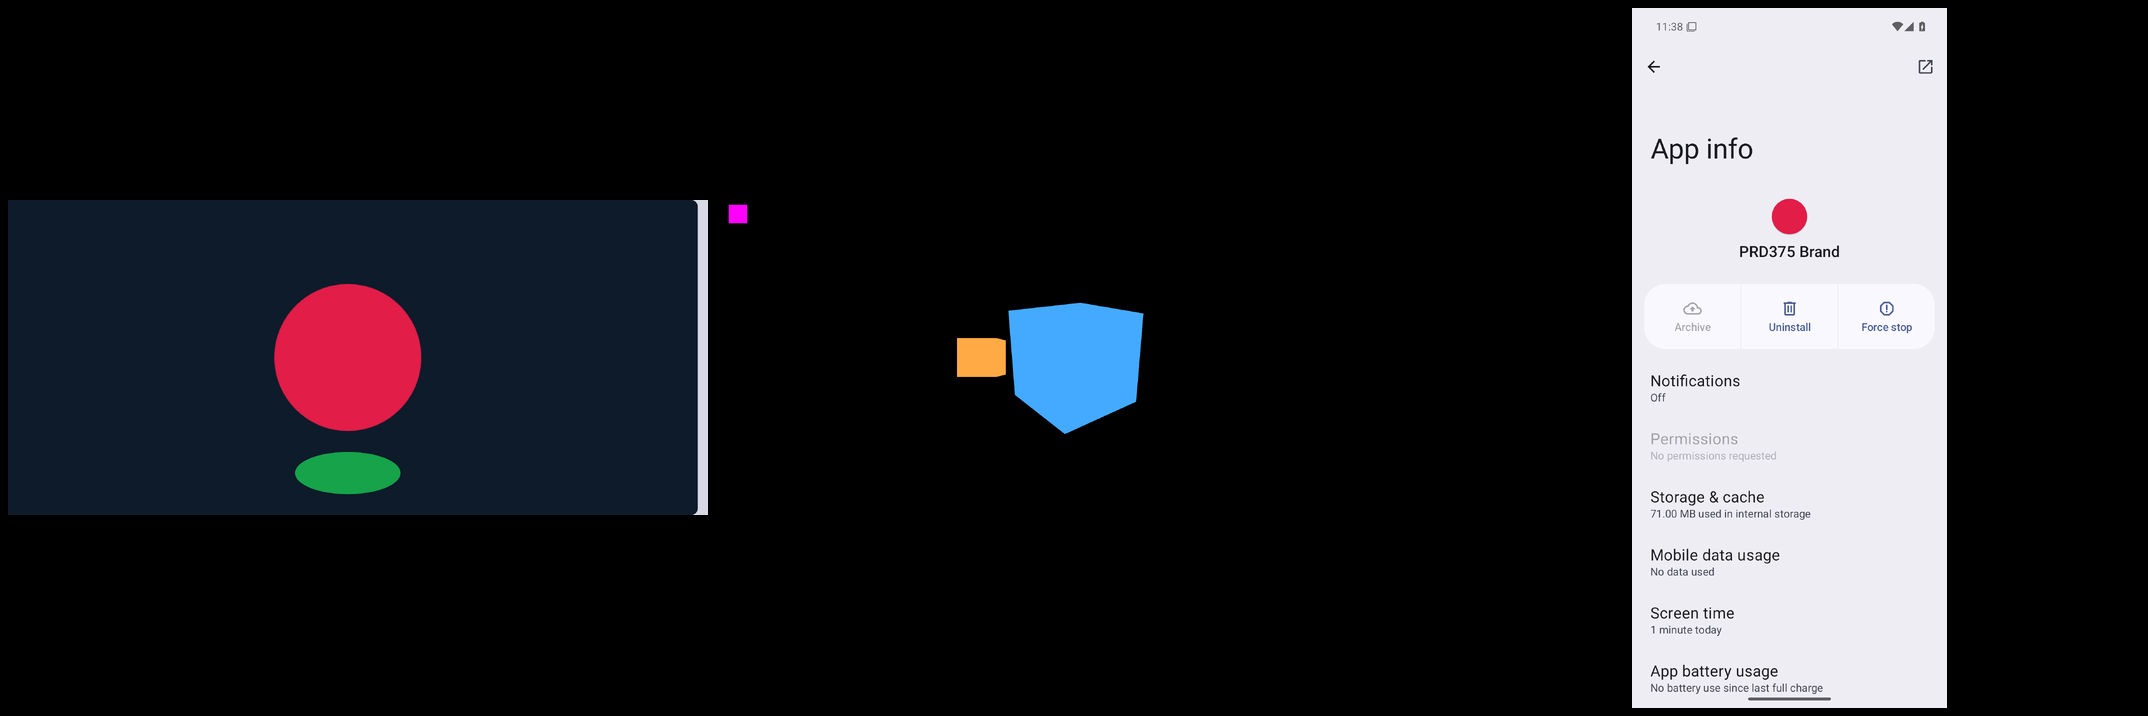
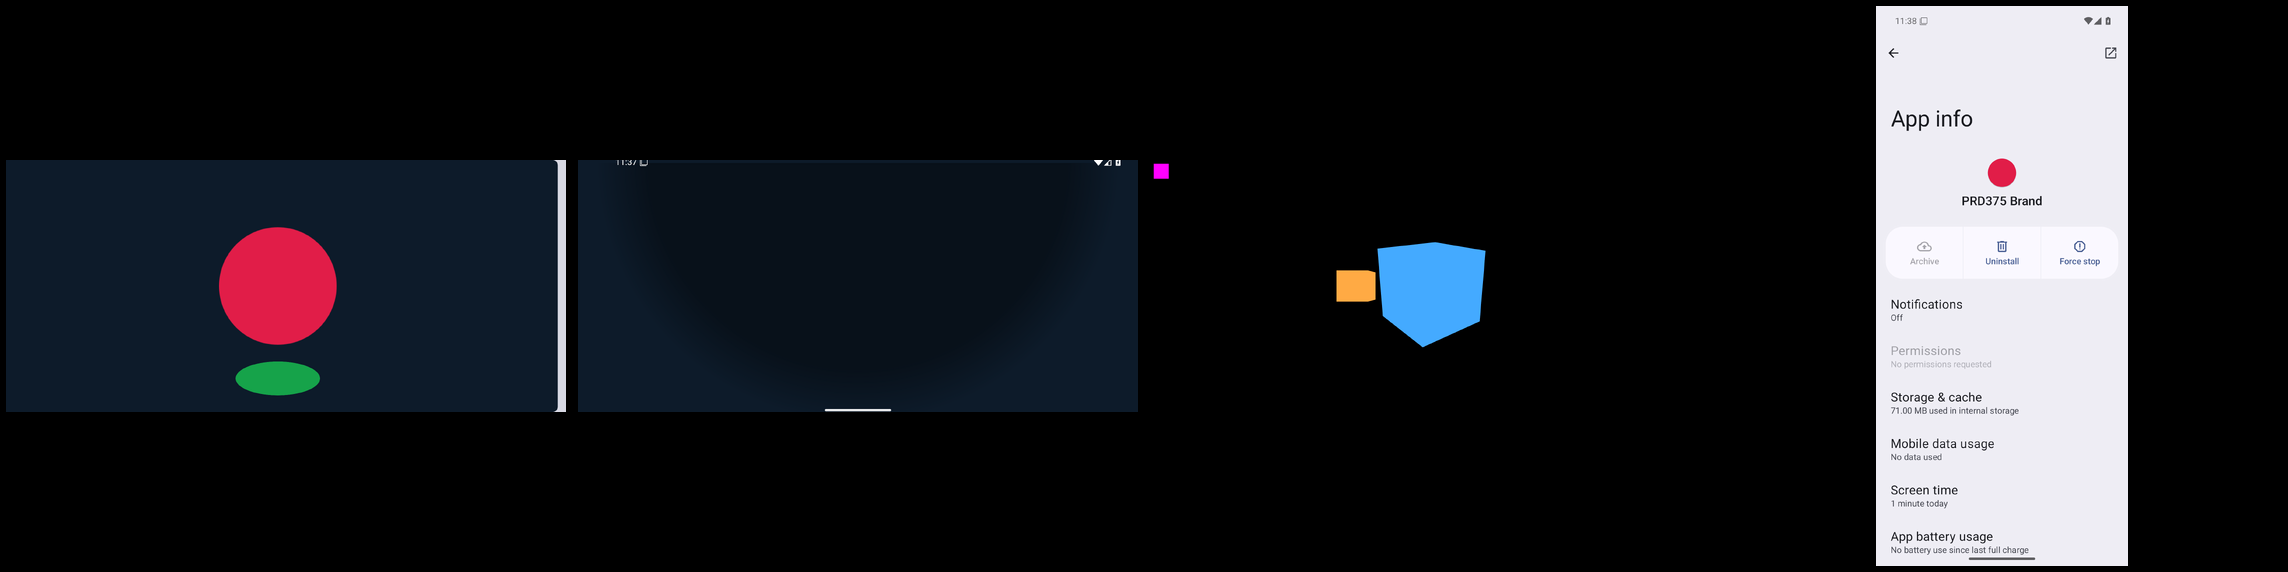
fix(PRD-375): address review — distinct-variant assertions, AAB coverage, honest evidence
- compare each packaged variant against its own source (catches slot swaps)
- add AAB release brand test and version/background-colour assertions
- evidence: correct test command, name themed-icon and OEM limits, add loading frame

diff --git a/docs/verification/prd-375-readiness-phase-1-2026-09-12.md b/docs/verification/prd-375-readiness-phase-1-2026-09-12.md
@@ -20,34 +20,45 @@ observation the earlier work never made.
 
 ```sh
 cd packages/runtime-native
-../../node_modules/.bin/vitest run tests/android-packaging.integration.test.mjs
+../../node_modules/.bin/vitest run --config vitest.config.ts tests/android-packaging.integration.test.mjs
 # Test Files  1 passed (1)
-# Tests      35 passed (35)
+# Tests      36 passed (36)
 ```
 
-Two tests were added (the other 33 pre-existed):
+Three tests were added (the other 33 pre-existed):
 
-- `a signed consumer release preserves the configured icon, splash and identity resources` —
+- `a release-mode artifact preserves the configured icon, splash and identity resources` —
   packages with `--mode release`, then reads the APK and asserts the manifest `icon`/`roundIcon`,
-  the label and application id, and byte-identical `mipmap-xxxhdpi/ic_launcher.png`,
+  the label, application id, `versionCode`/`versionName`, the `values/branding.xml` background
+  colours, and byte-identical `mipmap-xxxhdpi/ic_launcher.png`,
   `drawable-nodpi/ic_launcher_foreground.png`, `ic_launcher_monochrome.png` and
-  `tn_boot_splash.png`, plus the adaptive-icon XML's foreground reference.
+  `tn_boot_splash.png`. Each variant is written with distinct bytes and compared against its own
+  declared source, so copying one asset into another's slot fails. The signature verifier is the
+  injected seam and alignment is off (the fixture archive is hand-assembled); the real signature and
+  16 KB paths have their own tests in the same file.
+- `an Android App Bundle release carries the same configured brand resources` — the `bundleRelease`
+  AAB is inspected for the manifest icon, the monochrome drawable and the boot splash.
 - `a declared Android icon variant whose file is missing is refused before Gradle runs` — a config
   whose `icons.android.monochrome` file does not exist is refused with
   `TN_CONFIG_BRAND_ANDROID_MONOCHROME_MISSING`, and `last-task.txt` is absent, so no Gradle build
-  ran.
+  ran. The refusal happens in `installAndroidFiles` (package-android.mjs:628-632), before the
+  `spawnSync` Gradle invocation (package-android.mjs:1043), which is why the absent task file is
+  sound evidence.
 
 ## Observed red, then restored green
 
 1. **Disconnected splash staging.** Made `installAndroidFiles` skip the `tn_boot_splash` copy
-   (`if (false && branding.splash !== undefined)`), reran the new release test:
+   (`if (false && branding.splash !== undefined)`), reran the release test:
    `FAIL … Command failed: unzip -p …/fox.apk drawable-nodpi/tn_boot_splash.png` →
-   `filename not matched`. Source restored; 35/35 green again.
-2. **Config layer, real build (not manufactured).** A foreground PNG with no alpha channel was
+   `filename not matched`. Source restored; green again.
+2. **Variant cross-copy.** Made the monochrome slot receive the foreground bytes
+   (`copyFileSync(branding.foreground, androidMonochrome)`); the AAB test failed on the monochrome
+   entry not matching its declared source. Source restored; green again.
+3. **Config layer, real build (not manufactured).** A foreground PNG with no alpha channel was
    declared for the real starter project; `threenative build --target android --allow-source-build`
    refused before any Gradle work:
-   `TN_CONFIG_BRAND_ANDROID_FOREGROUND_ALPHA_INVALID: … app.icons.android.foreground must include an
-   alpha channel: brand/foreground.png`.
+   `TN_CONFIG_BRAND_ANDROID_FOREGROUND_ALPHA_INVALID: … app.icons.android.foreground must include
+   an alpha channel: brand/foreground.png`.
 
 ## Real artifact (source/consumer build)
 
@@ -77,18 +88,23 @@ Device: `sdk_gphone16k_x86_64` (16 KB-page AVD), API 36. Installed with `adb ins
 - **OS splash** (`s2.png`): navy `bootSplash.backgroundColor` `#0d1b2a`, the red authored foreground
   icon, and the green authored branding image at the foot — i.e. the adaptive icon foreground
   (`windowSplashScreenAnimatedIcon`) and `tn_boot_splash` (`windowSplashScreenBrandingImage`).
+- **Live loading transition** (`s3.png`): the navy loading surface with the progress indicator,
+  between the OS splash and the first game frame.
 - **Launcher/app metadata** (`appinfo2.png`): the system App info header shows the red adaptive
   launcher icon and the label `PRD375 Brand`.
 - **Playable frame** (`game.png`): the default starter scene (blue icosahedron, orange box, magenta
   marker); logcat `TN_SURFACE_FRAME … present 19…28` shows the engine presenting frames.
 
 Montage: [prd-375-phase-1-android-brand-emulator.png](prd-375-phase-1-android-brand-emulator.png)
-(splash, play, App info). Raw captures: `/tmp/opencode/prd375-captures/`.
+(OS splash, live loading, playable frame, App info). Raw captures: `/tmp/opencode/prd375-captures/`.
 
 ## Honest limits / not claimed
 
-- This is the **emulator**, not a physical OEM launcher. Physical OEM icon-mask/themed-icon
-  appearance remains unverified and is a separately named observation.
+- This is the **emulator**, not a physical OEM launcher. Physical OEM icon-mask appearance remains
+  unverified and is a separately named observation.
+- The **themed (monochrome) launcher icon** was not observed: the emulator's launcher was not driven
+  into its themed-icon mode, so the monochrome variant is proven only in the artifact (byte-identical
+  in the packaged drawable) and not on a launcher surface.
 - The APK above came from a maintainer **source** build (`--allow-source-build`), not from a
   published-cohort install. Public-cohort artifact acceptance is PRD-060's; this phase proves the
   packager writes and preserves the brand, which is the same code path.
@@ -100,9 +116,11 @@ Montage: [prd-375-phase-1-android-brand-emulator.png](prd-375-phase-1-android-br
 
 ## Files changed
 
-- `packages/runtime-native/tests/android-packaging.integration.test.mjs` — the two tests above
+- `packages/runtime-native/tests/android-packaging.integration.test.mjs` — the three tests above
   (+`existsSync` import). No production source change was required: the plumbing already carried the
-  brand; it had never been proven on a release artifact.
+  brand; it had never been proven on a release artifact. `packages/runtime-native/scripts/package-android.mjs`
+  and `packages/create-threenative/__tests__/config.spec.ts` were inspected and are unchanged (the
+  latter already covers the missing-declared-variant refusal at config.spec.ts:424).
 
 ## Next
 

diff --git a/docs/PRDs/production-readiness/PRD-375-release-artifacts-carry-the-game-brand.md b/docs/PRDs/production-readiness/PRD-375-release-artifacts-carry-the-game-brand.md
@@ -74,21 +74,21 @@ sequenceDiagram
 **Progress:**
 
 - [x] Callers wired and building: `packages/runtime-native/scripts/package-android.mjs`, `packages/runtime-native/tests/android-packaging.integration.test.mjs`, `packages/create-threenative/__tests__/config.spec.ts`
-      The branding render/install and config-validation callers already existed (PRD-153); this phase's change is the missing signed-release coverage in the integration test. Real `threenative build --target android --allow-source-build` completed, `BUILD SUCCESSFUL in 1m 48s`.
+      The branding render/install and config-validation callers already existed (PRD-153) and needed no production change; this phase's change is the missing release/AAB coverage in the integration test. Real `threenative build --target android --allow-source-build` completed, `BUILD SUCCESSFUL in 1m 48s`.
 - [x] Required test green: `packages/runtime-native/tests/android-packaging.integration.test.mjs`
-      35/35 passed 2026-09-12, including the new signed-release brand and missing-variant tests.
+      36/36 passed 2026-09-12, including the release-APK brand, AAB brand and missing-variant tests.
 - [x] Observed red recorded, then restored green
-      Disconnected splash staging made the release test fail (`drawable-nodpi/tn_boot_splash.png` not matched); restored. Separately, a non-alpha foreground was refused by config validation (`TN_CONFIG_BRAND_ANDROID_FOREGROUND_ALPHA_INVALID`) before Gradle.
+      Disconnected splash staging and a foreground/monochrome slot swap each made their test fail; restored. Separately, a non-alpha foreground was refused by config validation (`TN_CONFIG_BRAND_ANDROID_FOREGROUND_ALPHA_INVALID`) before Gradle.
 - [x] User verification performed on the named platform
-      API 36 16 KB AVD (`sdk_gphone16k_x86_64`): OS splash (navy bg + authored red foreground + green branding image), App info launcher icon + label `PRD375 Brand`, playable starter frame, `TN_SURFACE_FRAME` present. Physical OEM appearance remains a named observation.
+      API 36 16 KB AVD (`sdk_gphone16k_x86_64`): OS splash (navy bg + authored red foreground + green branding image), live loading transition, App info launcher icon + label `PRD375 Brand`, playable starter frame, `TN_SURFACE_FRAME` present. Unobserved and named: physical OEM icon-mask appearance and the themed (monochrome) launcher icon.
 - [x] Evidence record written: `docs/verification/prd-375-readiness-phase-1-2026-09-12.md`
 - [ ] Independent reviewer returned PASS
 
 **Files (maximum five):**
 
-- EDIT `packages/runtime-native/scripts/package-android.mjs` — repair demonstrated resource/handoff plumbing.
-- EDIT `packages/runtime-native/tests/android-packaging.integration.test.mjs` — inspect final signed icon/splash/identity resources.
-- EDIT `packages/create-threenative/__tests__/config.spec.ts` — invalid artwork is rejected before packaging.
+- EDIT `packages/runtime-native/scripts/package-android.mjs` — verified, no change required; the resource/handoff plumbing already carried the brand.
+- EDIT `packages/runtime-native/tests/android-packaging.integration.test.mjs` — inspect final signed icon/splash/identity resources on the release APK and AAB.
+- EDIT `packages/create-threenative/__tests__/config.spec.ts` — already covers invalid artwork refusal (config.spec.ts:424); unchanged.
 - NEW `docs/verification/prd-375-readiness-phase-1-<date>.md` — commands, identities, red/green and reviewer decision.
 
 **Implementation and wiring:** Consume PRD-212 release artifacts and PRD-221 aligned inputs. Inspect adaptive icon foreground/background/monochrome, label, application ID, version and boot splash from the final APK/AAB-derived installed app. Run actual launcher → OS splash → live loading → play on Android. Artwork/layout remains game input; invalid declared variants fail rather than silently reverting to defaults.
